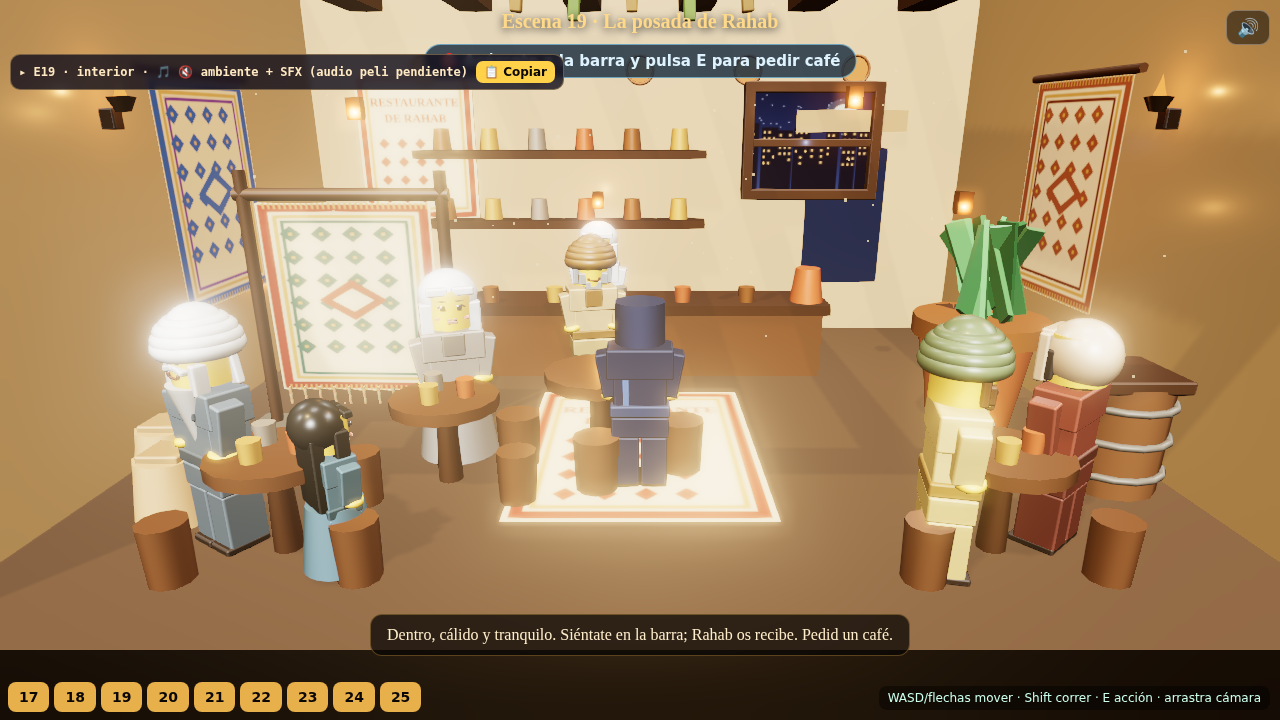
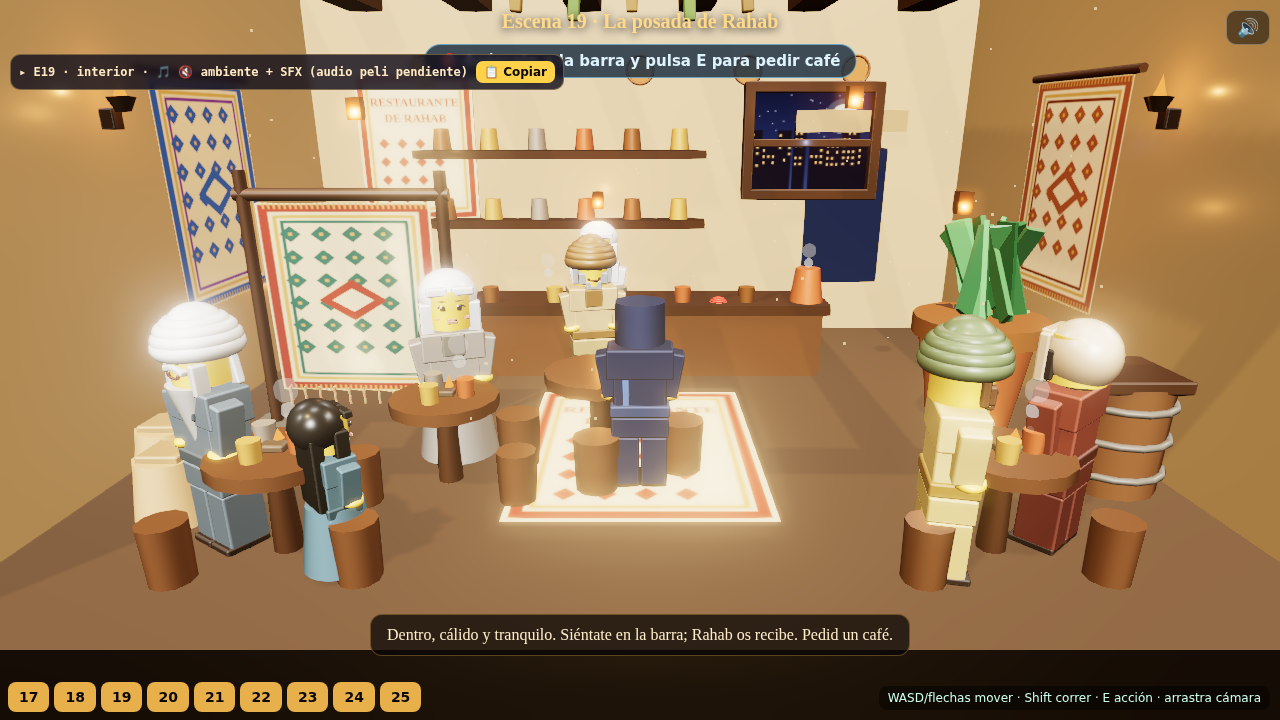
Noche: café humeante + candiles + cordón rojo en la taberna (biblia de la peli)
Usando referencias/peli.json (escenario taberna_rahab + personaje Rahab), añado a
buildTavernStage (interiores 19-25) lo que marca la biblia:
- Café HUMEANTE: volutas blancas ("humo de algodón") subiendo de tazas y barra
  (seña de la cafetería de Rahab; esc19 piden café).
- Candiles de aceite sobre las mesas (llama emisiva, brilla con el precioso).
- Ovillo de CORDÓN ROJO sobre la barra (objeto canónico de Rahab; presagia el
  pacto de esc21).

referencias/ NO se commitea (biblia + transcripción + ~700 frames pesados; queda
solo como referencia local). Muñecos: la biblia (Rahab, espías) vive en skins
compartidos -> los afina el LEAD/muñequero. Diálogo de Rahab: pendiente de
ui/Dialogue del LEAD.

Build OK (principal + preview), 0 errores de consola (esc19). Captura esc19
regenerada.

Claude-Session: https://claude.ai/code/session_015WLDEivXXZbK5n9bBPcdg3

diff --git a/mundo-ladrillos/src/scenes/min10/props/stage.ts b/mundo-ladrillos/src/scenes/min10/props/stage.ts
@@ -190,6 +190,30 @@ export function buildTavernStage(ctx: SceneContext, opts: { rahabAt?: [number, n
     { x: -1.5, z: -3.4, yaw: 0.2, emotion: 'happy' }   // camarero, junto a la barra
   ], { startIndex: 11 });
 
+  // ---- CAFÉ HUMEANTE + CANDILES + CORDÓN ROJO (fidelidad a la biblia de la peli) ----
+  // taberna_rahab: "jarras de café humeante (humo de algodón blanco), lámparas de aceite
+  // sobre las mesas". El café es la SEÑA de la cafetería de Rahab (esc19 piden café), y el
+  // cordón rojo es SU objeto (el pacto de esc21). Todo decorativo.
+  const steamPuffs: Array<{ m: THREE.Mesh; base: number; life: number }> = [];
+  const steamGeo = new THREE.SphereGeometry(0.16, 6, 5);
+  const steamAt = (x: number, y: number, z: number): void => {
+    for (let k = 0; k < 3; k++) {
+      const m = new THREE.Mesh(steamGeo, new THREE.MeshBasicMaterial({ color: 0xf3efe6, transparent: true, opacity: 0, depthWrite: false }));
+      m.position.set(x, y, z); group.add(m); steamPuffs.push({ m, base: y, life: k / 3 });
+    }
+  };
+  // candil de aceite sobre cada mesa (llama emisiva → brilla con el precioso) + café humeante
+  const oilLamp = (x: number, z: number): void => {
+    group.add(brickBox(P, 0.5, 0.16, 0.32, 0x6d5a44, x, 2.22, z));         // platillo
+    const fl = new THREE.Mesh(new THREE.ConeGeometry(0.1, 0.3, 6), fireMat);
+    fl.position.set(x + 0.13, 2.5, z); group.add(fl); wallFlames.push(fl);  // reusa flicker de wallFlames
+  };
+  ([[-7, 6], [7, 6], [-4.5, 3]] as Array<[number, number]>).forEach(([tx, tz]) => { oilLamp(tx, tz); steamAt(tx + 0.4, 2.55, tz); });
+  steamAt(-3, 3.05, -4.9); steamAt(5.5, 3.35, -5);                          // café humeante en la barra
+  // ovillo de CORDÓN ROJO sobre la barra (objeto de Rahab; presagia el pacto)
+  const cord = new THREE.Group(); cord.position.set(2.6, 2.45, -5); group.add(cord);
+  for (let i = 0; i < 3; i++) { const r = new THREE.Mesh(new THREE.TorusGeometry(0.26 - i * 0.05, 0.05, 6, 14), P.get(0xc0392b)); r.rotation.x = Math.PI / 2; r.position.y = i * 0.06; cord.add(r); }
+
   // ---- MOTAS de polvo flotando en la luz cálida (atmósfera senior) ----
   const moteN = 60;
   const moteGeo = new THREE.BufferGeometry();
@@ -217,6 +241,13 @@ export function buildTavernStage(ctx: SceneContext, opts: { rahabAt?: [number, n
       fireLight.intensity = 5.5 * f;
       flames.forEach((fl, i) => fl.scale.set(0.9 + f * 0.2, f * (1 + i * 0.12), 0.9 + f * 0.2));
       wallFlames.forEach((fl, i) => { const g = 0.82 + Math.sin(t * 13 + i * 1.7) * 0.14; fl.scale.set(0.9 + g * 0.15, g, 0.9 + g * 0.15); });
+      // café humeante: cada voluta sube y se desvanece en bucle (humo de algodón blanco)
+      for (const p of steamPuffs) {
+        p.life += _dt * 0.5; if (p.life > 1) p.life -= 1;
+        p.m.position.y = p.base + p.life * 1.2;
+        p.m.scale.setScalar(0.45 + p.life * 1.5);
+        (p.m.material as THREE.MeshBasicMaterial).opacity = 0.5 * (1 - p.life) * Math.min(1, p.life * 8);
+      }
       diners.update(_dt);
       // motas: suben lento y reaparecen
       const mp = motes.geometry.attributes.position as THREE.BufferAttribute;

diff --git a/mundo-ladrillos/coordinacion/min10-15.md b/mundo-ladrillos/coordinacion/min10-15.md
@@ -394,3 +394,12 @@ Cuando estéis en el remoto: **jugad mi tramo 10–15** y dejadme reporte. Cómo
   canónicos del muñequero; me llevé el archivo esc18 y conservé lo canónico. Build OK ·
   0 errores de consola (esc18) · captura regenerada. **Diálogo de Rahab: sigue pendiente
   del `ui/Dialogue` del LEAD** (no lo monto yo; dejo puente/HUD actual).
+- **07:41 UTC · Ciclo referencias — café humeante + cordón rojo (biblia peli).** Cogidas las
+  `referencias/` (peli.json biblia + transcripción + frames; NO las commiteo, ~700 img).
+  Verificado el mapeo: mis escenas de juego 18–25 = escenas 18–25 del film (esc23 tapiz+maceta
+  clava). Añadido a la taberna lo que marca `taberna_rahab`: **café humeante** (volutas de
+  "algodón blanco" en tazas y barra), **candiles** de aceite en las mesas y el **ovillo de
+  cordón rojo** (objeto de Rahab, presagia el pacto esc21). Aplica a interiores 19–25.
+  Build OK (principal+preview) · 0 errores de consola (esc19) · captura esc19 regenerada.
+  Pendiente del LEAD: `ui/Dialogue` para cablear la conversación de Rahab. Muñecos: la biblia
+  (Rahab arena+chal gris; espías sigilo negro/gris) vive en skins COMPARTIDOS → que los afine el LEAD/muñequero, no los toco.
